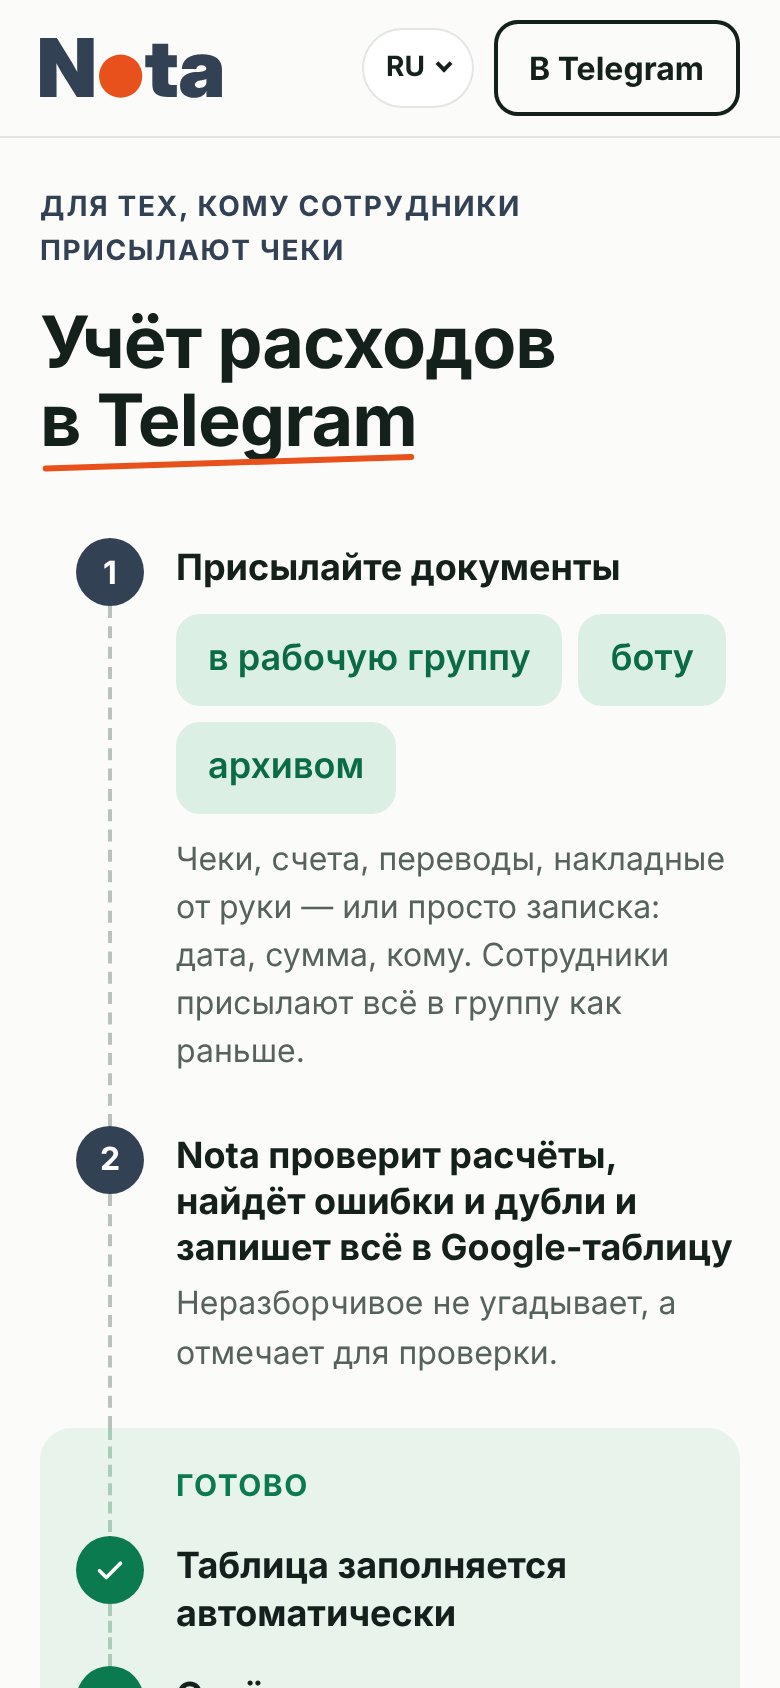
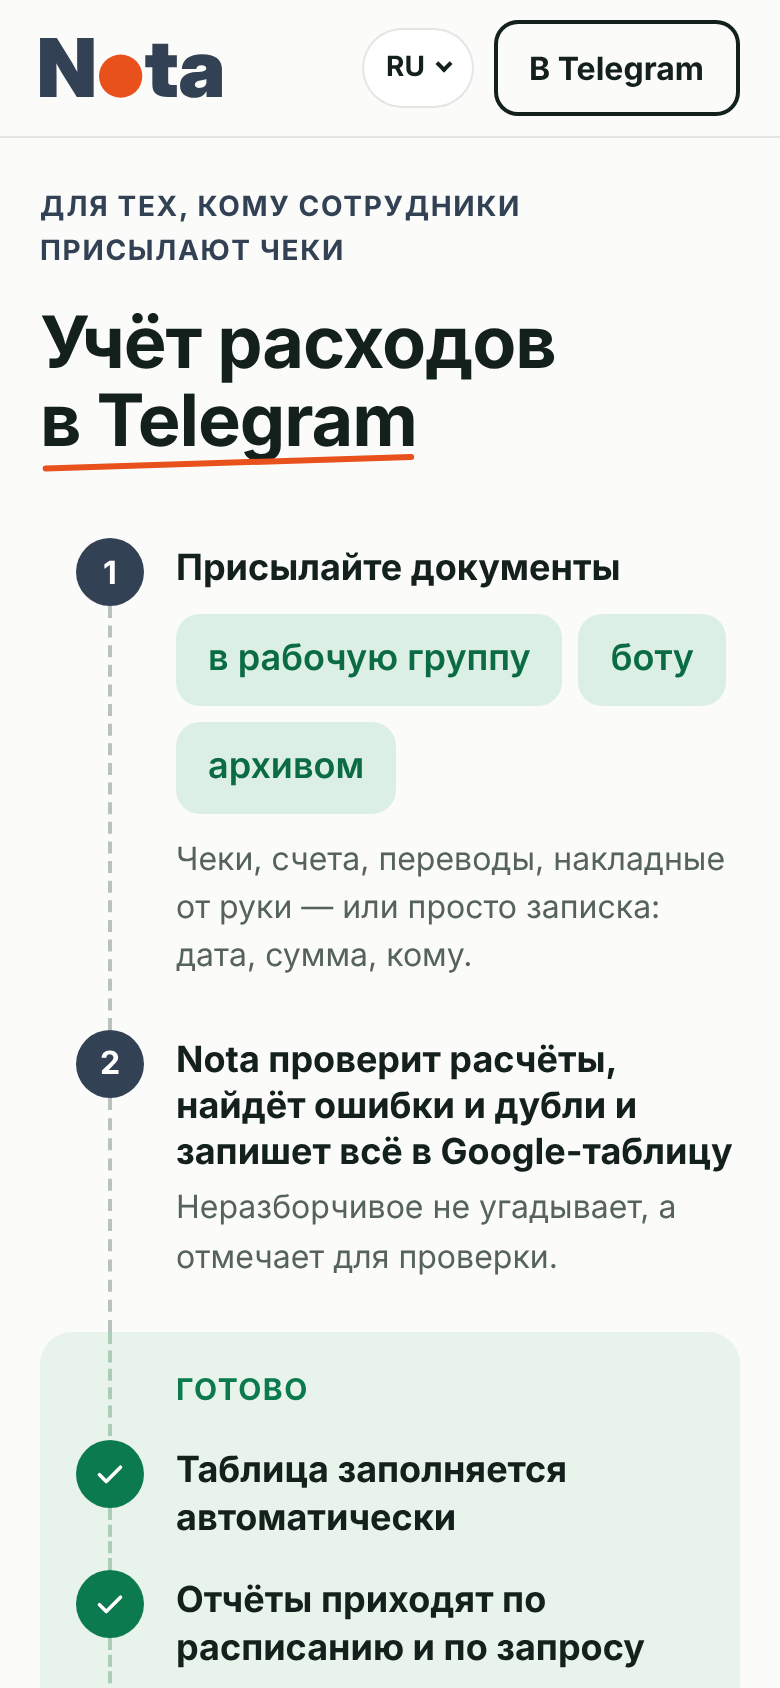
Sketch G: drop repeated work-group sentence in step 1
Claude-Session: https://claude.ai/code/session_01L3HhR7LSGwJtypFbeUeh92

diff --git a/founder/landing-start-sketch/g.html b/founder/landing-start-sketch/g.html
@@ -5,7 +5,7 @@
 <h1 class="f-h1">Учёт расходов <span class="mk-u">в Telegram<svg class="mk-under" viewBox="0 0 200 16" preserveAspectRatio="none" aria-hidden="true"><path d="M3 13C50 11.5 120 8 197 4"/></svg></span></h1>
 <div class="mk-split mk-split--f">
 <div class="mk-left">
-<ol class="f-flow"><li><span class="e-n">1</span><div><b>Присылайте документы</b><span class="f-chips"><i>в рабочую группу</i><i>боту</i><i>архивом</i></span><span class="f-d g-sub">Чеки, счета, переводы, накладные от руки — или просто записка: дата, сумма, кому. Сотрудники присылают всё в группу как раньше.</span></div></li><li><span class="e-n">2</span><div><b>Nota проверит расчёты, найдёт ошибки и дубли и запишет всё в Google-таблицу</b><span class="f-d g-sub2">Неразборчивое не угадывает, а отмечает для проверки.</span></div></li></ol><div class="f-auto"><div class="f-auto-h">Готово</div><ol class="f-flow"><li><span class="e-n f-ok"><svg viewBox="0 0 24 24" width="18" height="18" aria-hidden="true" fill="none" stroke="currentColor" stroke-width="2.4" stroke-linecap="round" stroke-linejoin="round"><path d="M5 12.5l4.5 4.5L19 7.5"/></svg></span><div><b>Таблица заполняется автоматически</b></div></li><li><span class="e-n f-ok"><svg viewBox="0 0 24 24" width="18" height="18" aria-hidden="true" fill="none" stroke="currentColor" stroke-width="2.4" stroke-linecap="round" stroke-linejoin="round"><path d="M5 12.5l4.5 4.5L19 7.5"/></svg></span><div><b>Отчёты приходят по расписанию и по запросу</b></div></li><li><span class="e-n f-ok"><svg viewBox="0 0 24 24" width="18" height="18" aria-hidden="true" fill="none" stroke="currentColor" stroke-width="2.4" stroke-linecap="round" stroke-linejoin="round"><path d="M5 12.5l4.5 4.5L19 7.5"/></svg></span><div><b>Уведомления о дублях и ошибках — сразу</b></div></li></ol></div>
+<ol class="f-flow"><li><span class="e-n">1</span><div><b>Присылайте документы</b><span class="f-chips"><i>в рабочую группу</i><i>боту</i><i>архивом</i></span><span class="f-d g-sub">Чеки, счета, переводы, накладные от руки — или просто записка: дата, сумма, кому.</span></div></li><li><span class="e-n">2</span><div><b>Nota проверит расчёты, найдёт ошибки и дубли и запишет всё в Google-таблицу</b><span class="f-d g-sub2">Неразборчивое не угадывает, а отмечает для проверки.</span></div></li></ol><div class="f-auto"><div class="f-auto-h">Готово</div><ol class="f-flow"><li><span class="e-n f-ok"><svg viewBox="0 0 24 24" width="18" height="18" aria-hidden="true" fill="none" stroke="currentColor" stroke-width="2.4" stroke-linecap="round" stroke-linejoin="round"><path d="M5 12.5l4.5 4.5L19 7.5"/></svg></span><div><b>Таблица заполняется автоматически</b></div></li><li><span class="e-n f-ok"><svg viewBox="0 0 24 24" width="18" height="18" aria-hidden="true" fill="none" stroke="currentColor" stroke-width="2.4" stroke-linecap="round" stroke-linejoin="round"><path d="M5 12.5l4.5 4.5L19 7.5"/></svg></span><div><b>Отчёты приходят по расписанию и по запросу</b></div></li><li><span class="e-n f-ok"><svg viewBox="0 0 24 24" width="18" height="18" aria-hidden="true" fill="none" stroke="currentColor" stroke-width="2.4" stroke-linecap="round" stroke-linejoin="round"><path d="M5 12.5l4.5 4.5L19 7.5"/></svg></span><div><b>Уведомления о дублях и ошибках — сразу</b></div></li></ol></div>
 <div class="cta-row cta-row--qr"><a class="btn" href="#">Начать бесплатно</a><div class="cta-qr"><img src="http://localhost:4321/screens/qr-bot-v10.svg" alt="" width="54" height="54"><span>Или камерой телефона</span></div></div>
 <p class="cta-line">30 документов бесплатно, без карты и регистрации</p>
 </div>
